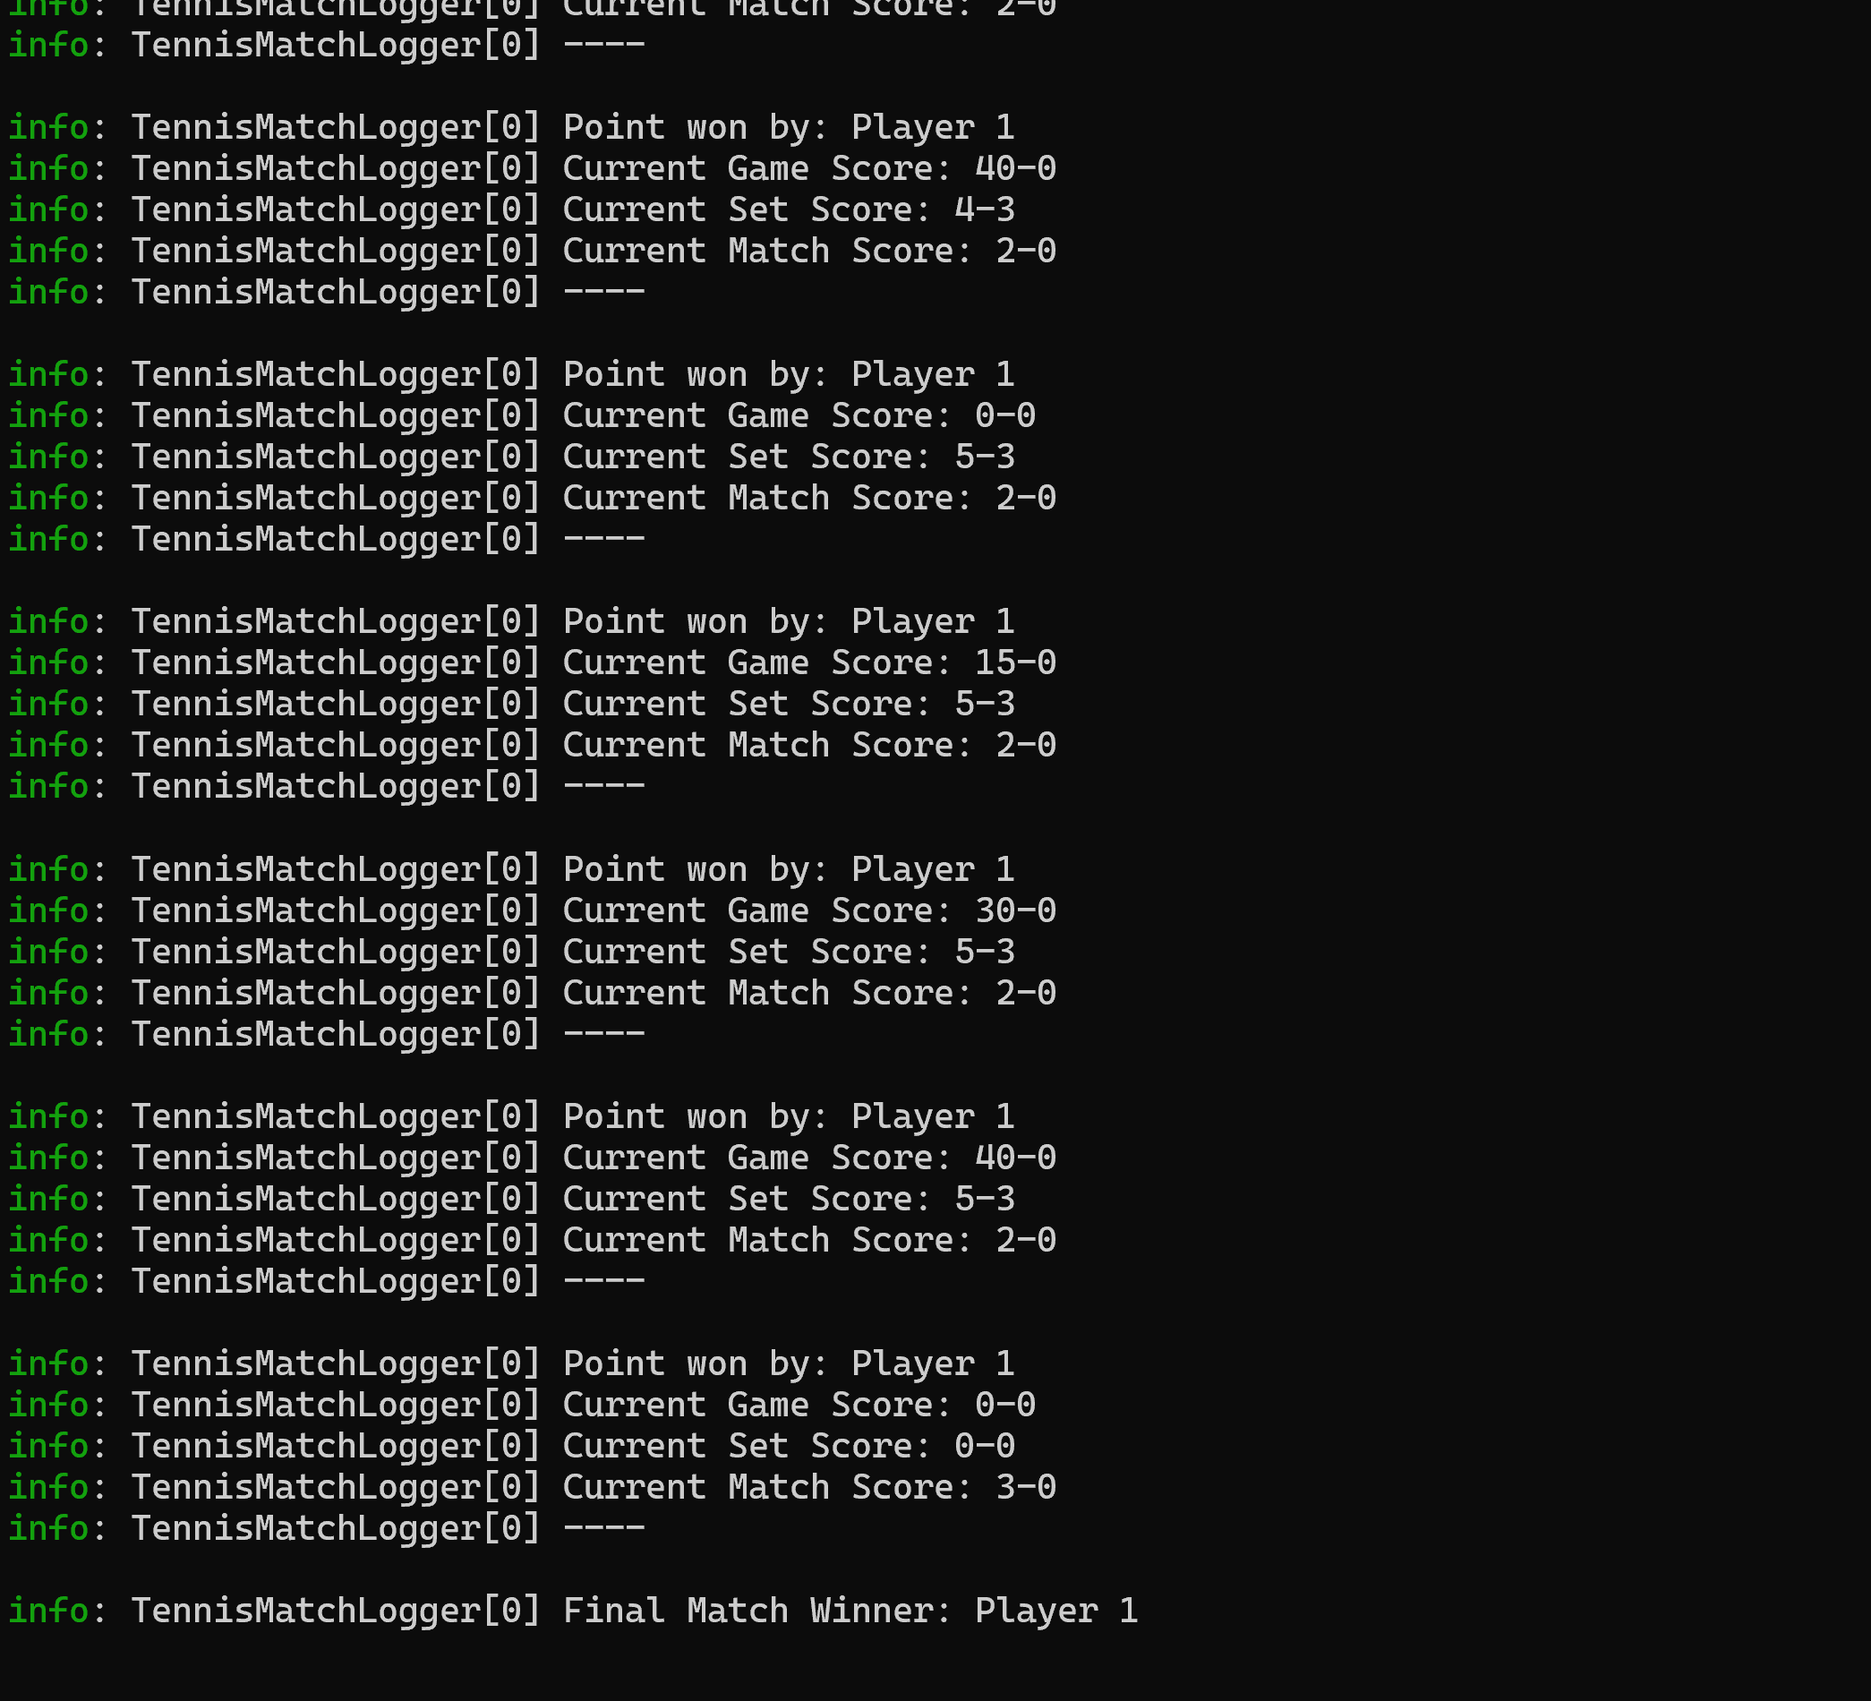
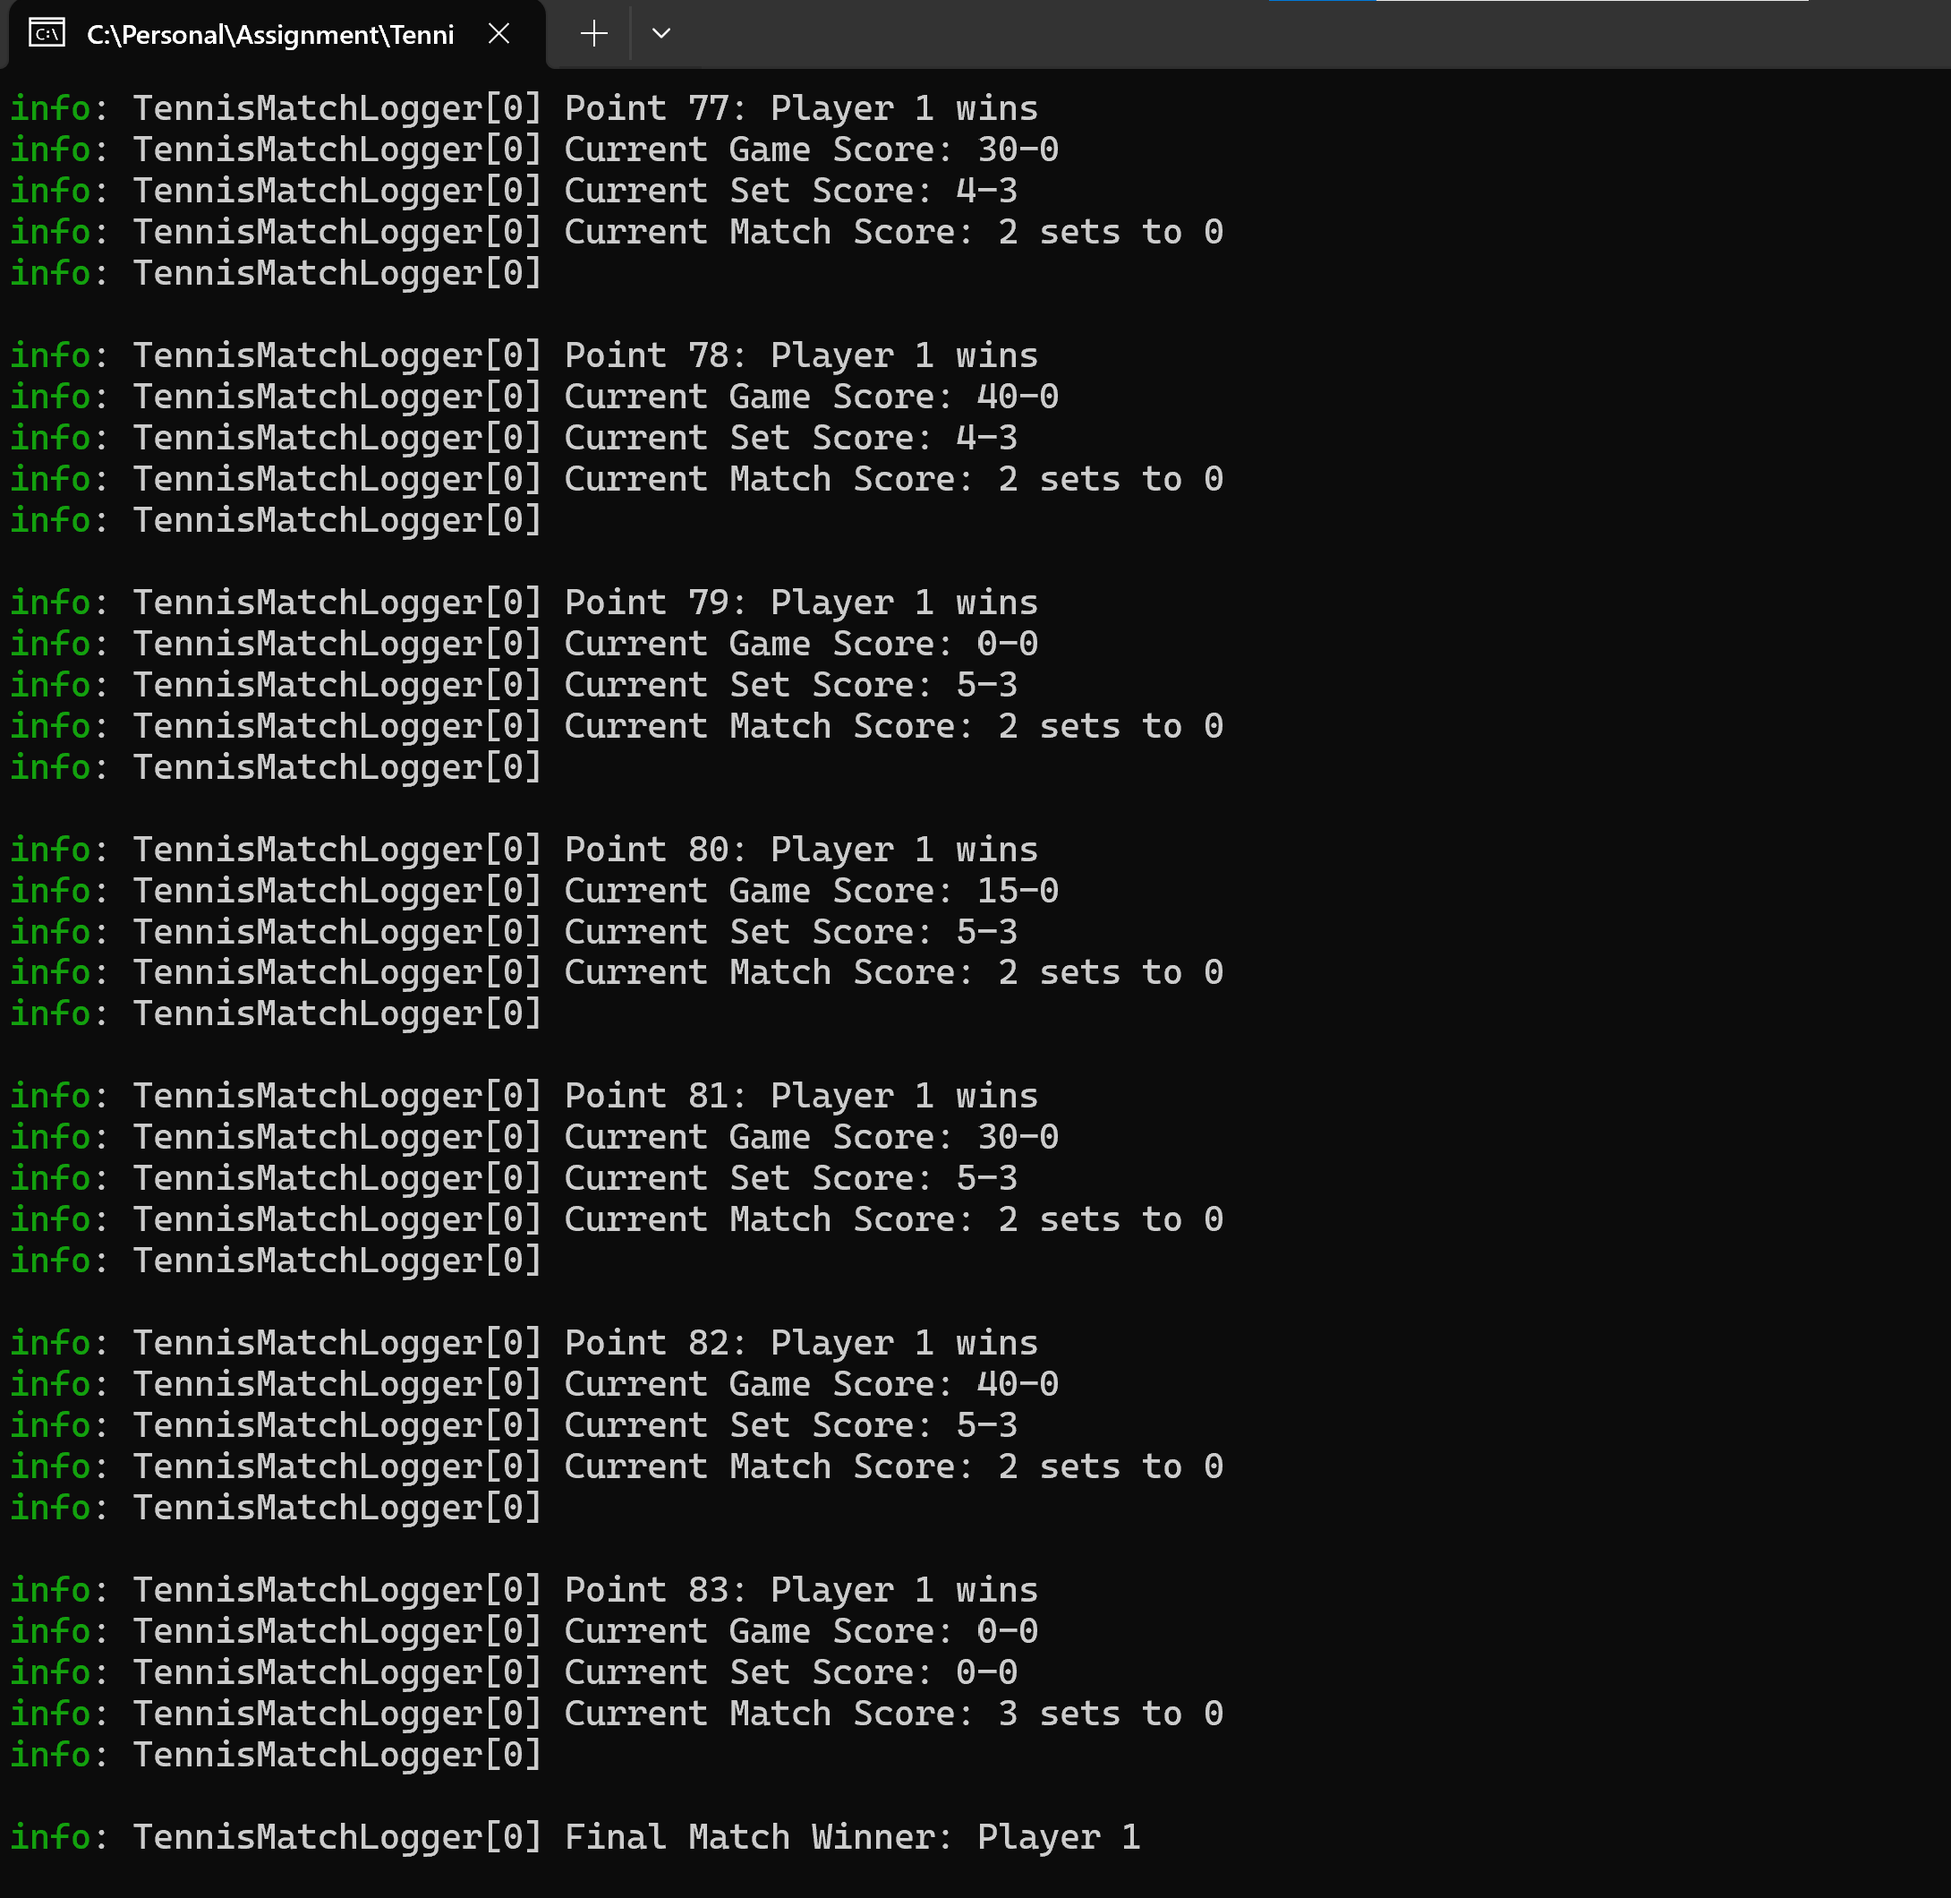
Customisations

Changed region(s): [[0.0, 0.0, 1.0, 0.9937]]

diff --git a/src/Service/TennisMatchManager.cs b/src/Service/TennisMatchManager.cs
@@ -20,11 +20,12 @@ namespace TennisMatchService
                 var match = new Match(player1, player2);
                 bool isMatchOver;
                 _logger.LogNewMatchStart(player1.Name, player2.Name);
-
-                foreach (var point in points)
+                int currentPoint = -1;
+                for (int index = 0; index < points.Length; index++)
                 {
-                    isMatchOver = match.RegisterPointWon(point);
-                    _logger.LogMessage($"Point won by: {(point == 0 ? player1.Name : player2.Name)}");
+                    currentPoint = points[index];
+                    isMatchOver = match.RegisterPointWon(currentPoint);
+                    _logger.LogMessage($"Point {index}: {(currentPoint == 0 ? player1.Name : player2.Name)} wins");
                     _logger.LogMessage($"Current Game Score: {match.GetCurrentGameScore}");
                     _logger.LogMessage($"Current Set Score: {match.GetCurrentSetScore}");
                     _logger.LogMessage($"Current Match Score: {match.GetCurrentMatchScore}");
@@ -38,7 +39,8 @@ namespace TennisMatchService
                 }
                 _logger.LogMessage($"No Result");
             }
-            catch (Exception ex) { 
+            catch (Exception ex)
+            {
                 _logger.LogError(ex.Message);
             }
         }

diff --git a/src/Domain/Models/Match.cs b/src/Domain/Models/Match.cs
@@ -50,7 +50,7 @@
 
         public string GetCurrentSetScore => _currentSet.GetScore();
 
-        public string GetCurrentMatchScore => $"{Player1.SetsWon}-{Player2.SetsWon}";
+        public string GetCurrentMatchScore => $"{Player1.SetsWon} sets to {Player2.SetsWon}";
 
         public bool IsMatchOver => Player1.SetsWon == 3 || Player2.SetsWon == 3;
 

diff --git a/src/Service/Logger/MatchLogger.cs b/src/Service/Logger/MatchLogger.cs
@@ -23,7 +23,7 @@ namespace TennisMatchService.Logger
 
         public void LogLineBreak()
         {
-            LogMessage("----\n");
+            LogMessage("\n");
         }
         public void LogError(string message)
         {
